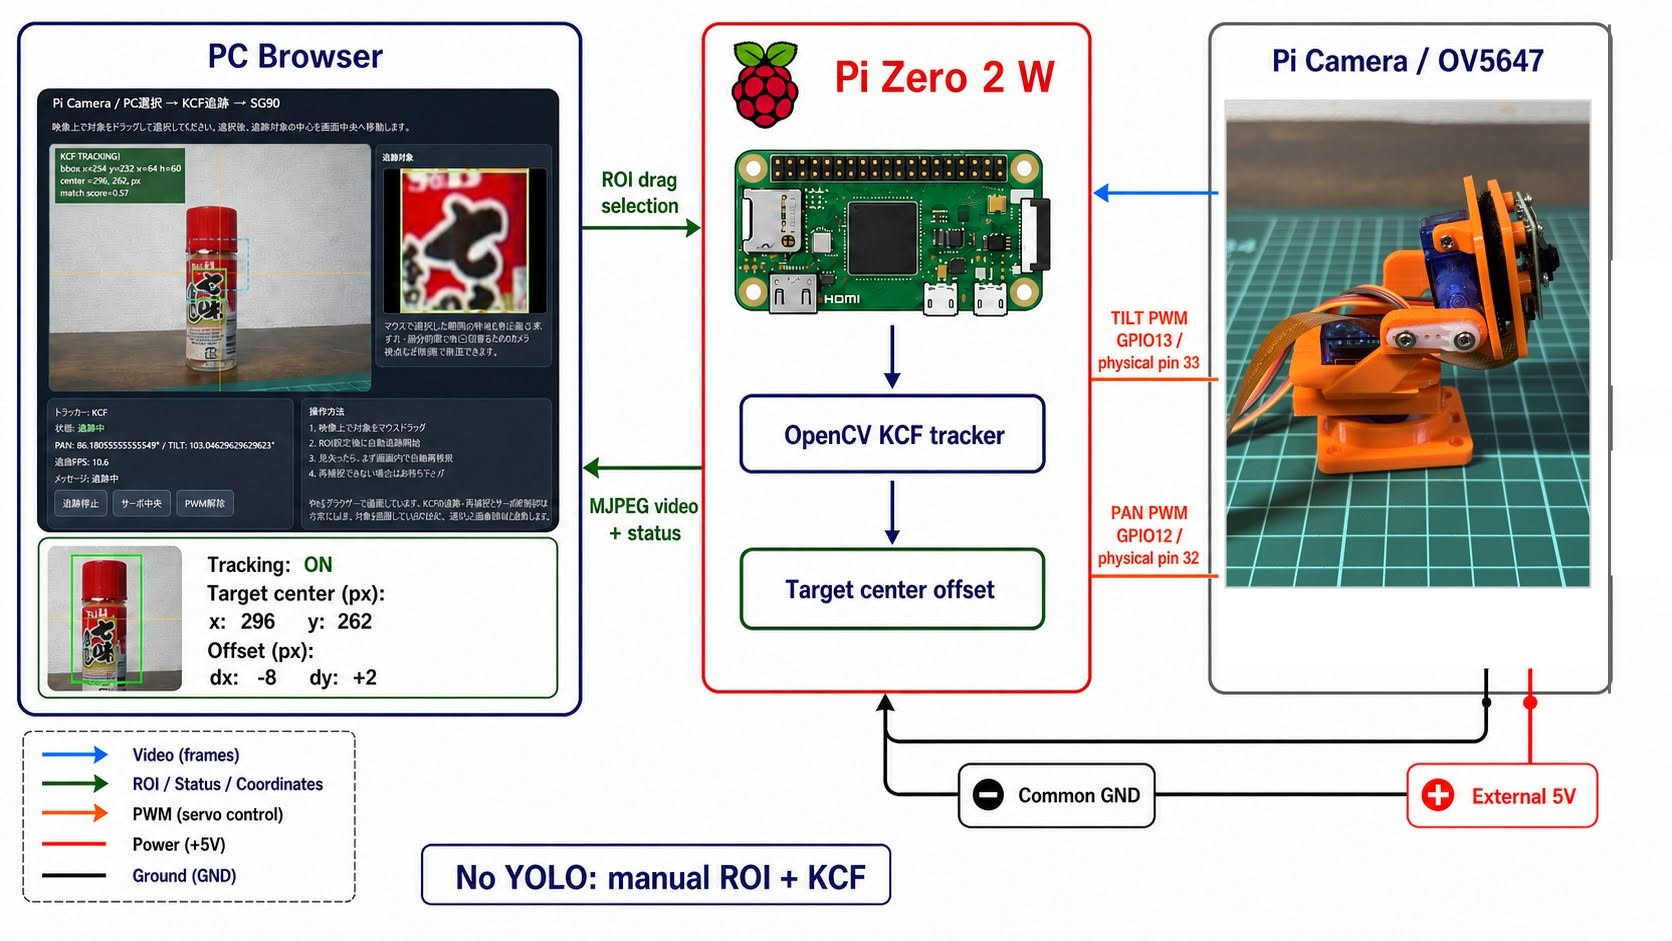
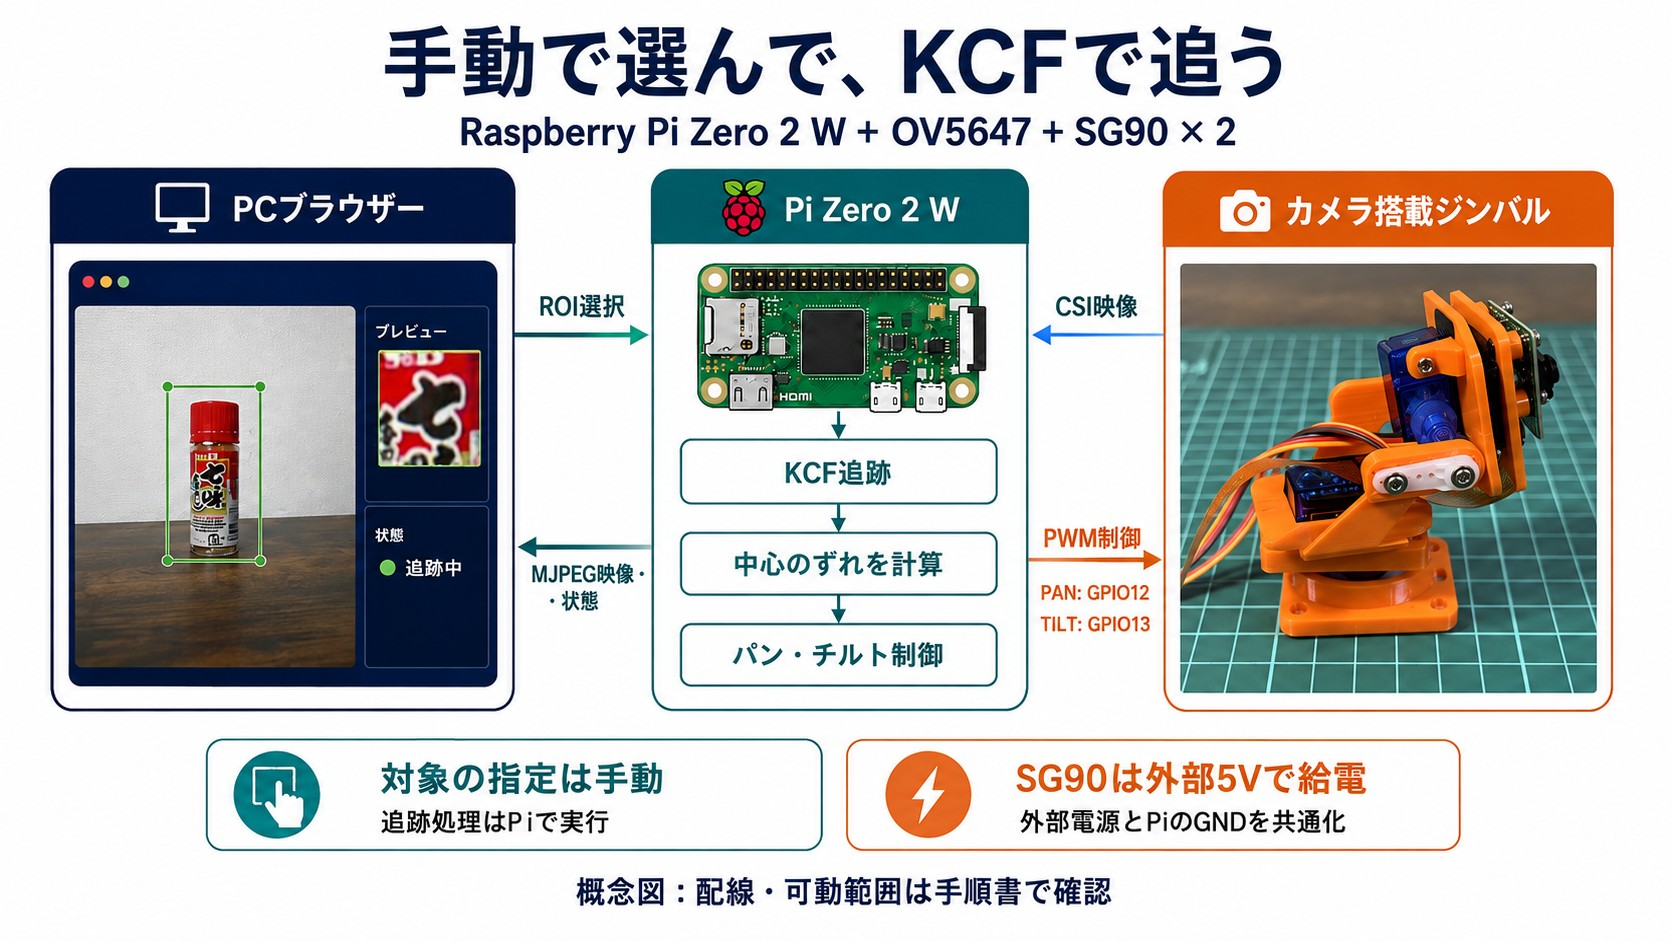
Update README and assets for Raspberry Pi Camera Gimbal Tracker project
- Revised project description in README.md for clarity and detail.
- Added a new wiring diagram (gimbal-system-wiring.svg) to illustrate the overall wiring setup.
- Updated inference time comparison SVG (inference-time-comparison.svg) with new measurements and descriptions.
- Replaced the previous KCF tracking system overview image with an updated version.
- Enhanced the safety and setup instructions in the README for better user guidance.

diff --git a/README.md b/README.md
@@ -1,16 +1,25 @@
 # Raspberry Pi Camera SG90 Gimbal Tracker
 
-Raspberry Pi Zero 2 W、OV5647カメラ、SG90サーボ2個を使ったパン・チルトジンバルの実験プロジェクトです。カメラ配信、手動操作、物体検知、KCF追跡を段階的に検証しています。
+PCブラウザーで対象を選び、Raspberry Pi Zero 2 W上で追跡し、SG90サーボ2個でカメラの向きを調整する実験プロジェクトです。OV5647カメラの配信・手動操作から、物体検出の性能比較、KCF追跡までをまとめています。
 
-![カメラ搭載ジンバル](assets/04_カメラ搭載ジンバルとPiZero2W接続.jpg)
+![手動ROI選択からKCF追跡、2軸ジンバル制御までの概要](assets/kcf-tracking-system-overview.jpg)
+
+[部品表](BOM.md) · [セットアップ](docs/setup.md) · [安全上の注意](SAFETY.md) · [ベンチマーク詳細](docs/benchmarks.md)
 
 > このプロジェクトは実験段階です。人物を自動検知して安定して追い続ける完成品ではありません。
 
 ## KCF追跡の構成とデモ
 
-![手動ROI選択とKCF追跡の構成](assets/kcf-tracking-system-overview.jpg)
-
 PCブラウザーで対象領域（ROI）を選び、Pi Zero 2 W上のOpenCV KCFで追跡します。YOLOによる自動検出は使わず、追跡中心と映像中心の差からSG90を制御する構成です。
+
+| 役割 | 構成 |
+|---|---|
+| 対象選択・映像確認 | 同じネットワークのPCブラウザーからROIを選択、MJPEG映像・状態を確認 |
+| 映像取得・追跡 | OV5647（CSI接続）とPi Zero 2 W、OpenCV KCF |
+| カメラの向き調整 | SG90 × 2、PANはGPIO12（物理32番）、TILTはGPIO13（物理33番） |
+| サーボ給電 | 外部5V電源。外部電源GNDとPi GNDを共通化 |
+
+概要図は信号の流れを示す概念図です。実際の配線や可動範囲は[安全上の注意](SAFETY.md)と[セットアップ](docs/setup.md)を確認してください。
 
 パン・チルト機構には、MakerWorldの[SG90 Servo 2 Axis Gimbal](https://makerworld.com/ja/models/511916-sg90-servo-2-axis-gimbal)を3Dプリントして使用しています。モデルの作者名、ライセンス、利用条件は公開時にMakerWorld掲載ページで再確認してください。このリポジトリにはモデル本体や派生データを含めず、ライセンスも付与しません。
 
@@ -22,7 +31,37 @@ PCブラウザーで対象領域（ROI）を選び、Pi Zero 2 W上のOpenCV KCF
 
 [![ジンバルが追従するデモをYouTubeで再生](https://img.youtube.com/vi/jf3r5UFmqSM/hqdefault.jpg)](https://www.youtube.com/watch?v=jf3r5UFmqSM)
 
-サムネイルをクリックするとYouTubeで再生します。動画はGit履歴へ含めず、原動画は[Release v0.1.0-kcf-demo](https://github.com/zorosdrone/pi-zero-camera-gimbal-tracker/releases/tag/v0.1.0-kcf-demo)の添付ファイルとしても配布します。
+サムネイルをクリックするとYouTubeで再生します。原動画は[Release v0.1.0-kcf-demo](https://github.com/zorosdrone/pi-zero-camera-gimbal-tracker/releases/tag/v0.1.0-kcf-demo)からもダウンロードできます。
+
+## 処理時間と方式選定
+
+Pi Zero 2 W実機で測定した結果です。重い検出モデルは処理時間が長く、軽量なFOMOは速度面では候補ですが、背景誤検出が課題でした。そこで、対象の指定を人が行うKCF方式で追跡とジンバル制御を検証しています。
+
+![推論処理時間の比較。YOLOv5nu約17秒、MobileNet-SSD約4.85秒、FOMO約2〜3ミリ秒。対数軸、測定条件は方式ごとに異なる](assets/inference-time-comparison.svg)
+
+| 方式・処理 | 実測の概要 | このプロジェクトでの判断 |
+|---|---|---|
+| YOLOv5nu / OpenCV DNN | 640×640、保存画像で約17秒。カメラ入力では約0.052 fps | リアルタイム追跡には速度不足 |
+| MobileNet-SSD / OpenCV DNN | 300×300、4スレッド、平均約4.85秒（約0.206 fps） | リアルタイム追跡には速度不足 |
+| Edge Impulse FOMO | 64×64、推論約2〜3 ms。ライブ処理は約14.70 fps | 速度は候補。静止画評価は画像単位7/13で、再学習が必要 |
+| KCF | ROI選択・追跡・サーボ指令の基本動作を確認 | 実環境評価を継続。比較可能な処理時間は未掲載 |
+| カメラ取得 / MJPEG配信 | 取得約14.98 fps、配信中CPU約12.4% | 映像入出力の確認値。推論性能とは別指標 |
+
+入力解像度・モデル・前処理が異なるため、同一条件での性能順位ではありません。FOMOの推論時間は映像取得からサーボ応答までの遅延ではなく、fpsと単純に置き換えることもできません。測定条件と判断の詳細は[ベンチマーク結果](docs/benchmarks.md)を参照してください。
+
+## 実機の構成
+
+### 全体の配線
+
+![カメラジンバルの全体配線図：PCのWi-Fi接続、OV5647のCSI接続、Pi用USB電源、SG90のGPIO信号・外部5V電源・共通GND](assets/gimbal-system-wiring.svg)
+
+OV5647はPi Zero対応のCSIリボンケーブルでPiに接続し、PCは同じネットワークからWi-Fi経由で操作します。Piは電源用USB端子（PWR IN）から給電し、サーボ2個は外部5V電源で別給電します。
+
+図は接続先の模式図で、実物のピン配置図ではありません。GPIO番号はBCM方式です。PAN信号はGPIO12（物理32番）、TILT信号はGPIO13（物理33番）へ接続します。外部電源GND・サーボ2個のGND・Pi GND（物理34番）は共通接続します。サーボ端子の対応だけ確認する場合は[サーボ配線対応図](assets/05_SG90_配線イラスト.svg)も参照できます。配線前に[安全上の注意](SAFETY.md)を確認してください。
+
+### 組み立て例
+
+![OV5647カメラを搭載したSG90パン・チルトジンバルとPi Zero 2 W](assets/04_カメラ搭載ジンバルとPiZero2W接続.jpg)
 
 ## 現在の状態
 
@@ -40,7 +79,7 @@ PCブラウザーで対象領域（ROI）を選び、Pi Zero 2 W上のOpenCV KCF
 
 ## 最初に試す構成
 
-現在もっとも再現しやすい入口は、カメラ映像をブラウザーへ配信し、手動でジンバルを動かす構成です。
+現在もっとも再現しやすい入口は、カメラ映像をブラウザーへ配信し、手動でジンバルを動かす構成です。セットアップ後、リポジトリのルートで実行します。
 
 ```bash
 python3 src/05_manual_gimbal_web_control.py
